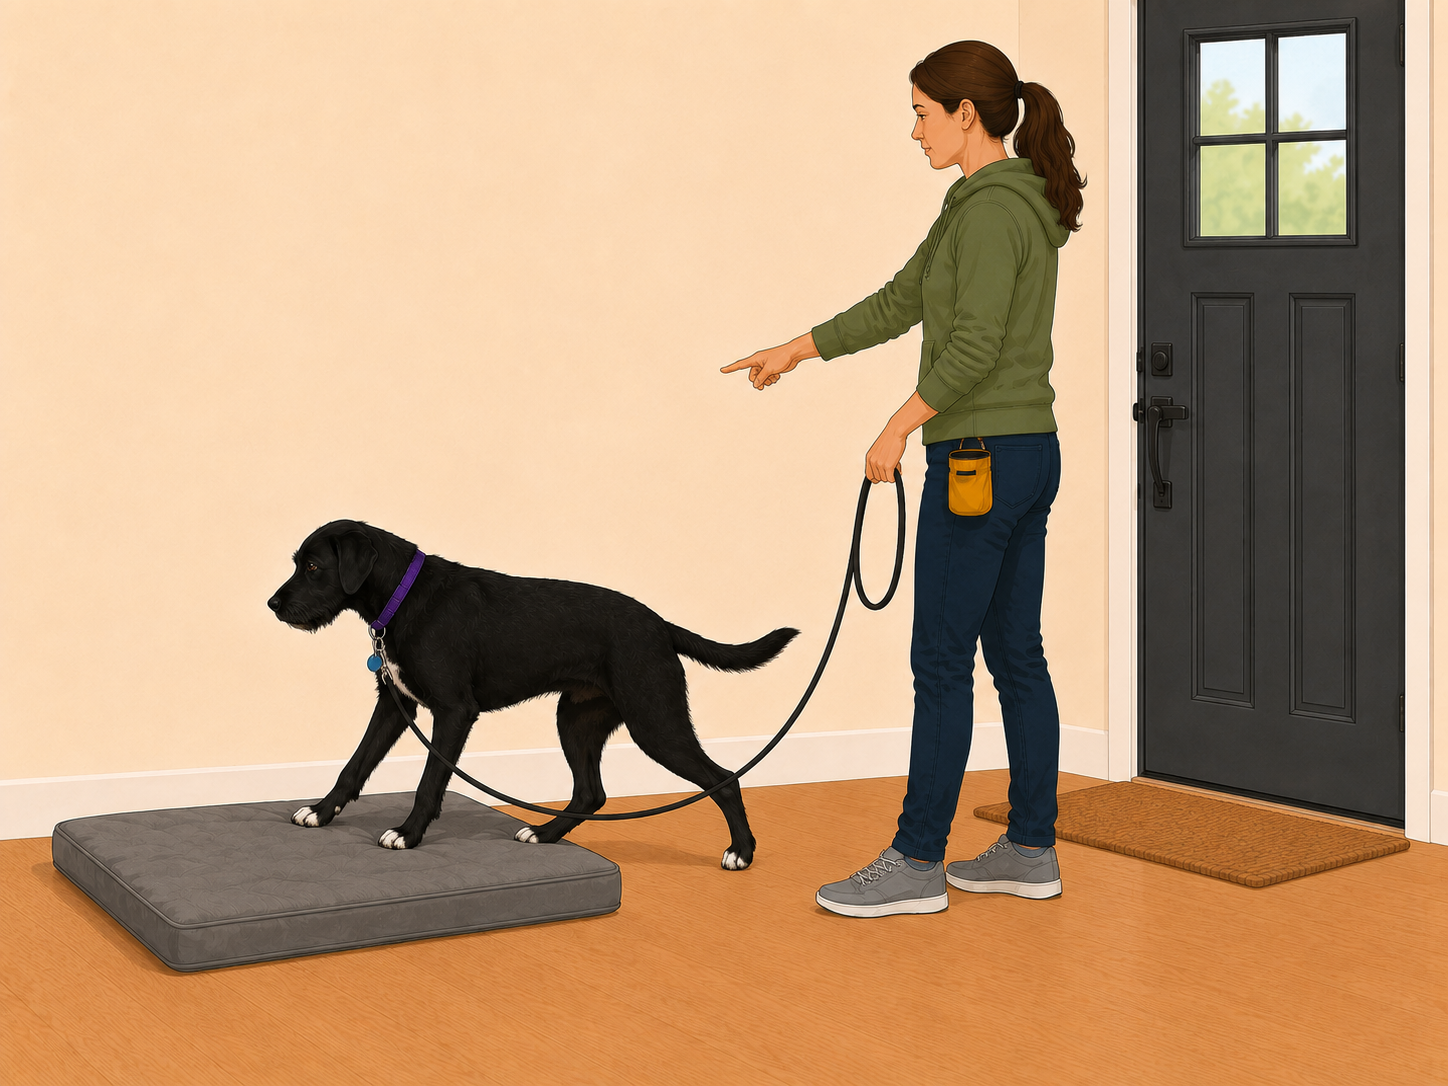
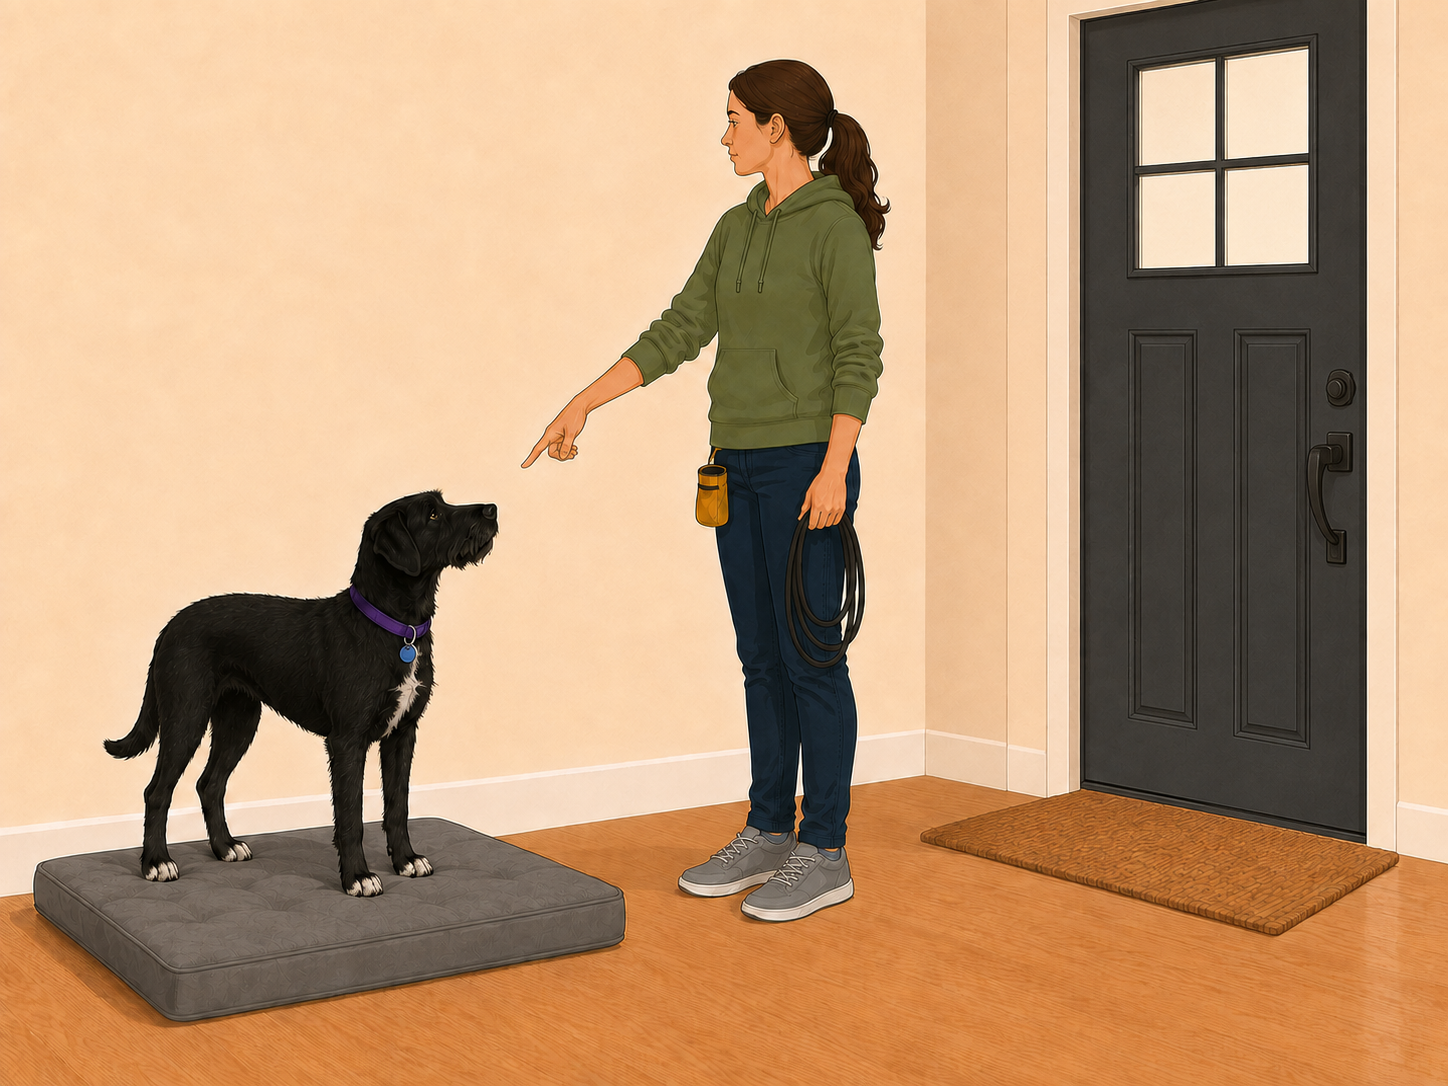
Install the send-to-bed redraw, and guard the bug that ate its pair
door-place-03-send passed its blind check and shipped. Three viewers, filenames
stripped: four feet on the bed, high confidence she is on it, attention on the
handler, and nobody read her as leaving - which is the dg-06 defect that had
survived one replacement already.

All three still could not tell whether she had just stepped on, was holding, or
was about to step off, so the claim was rewritten rather than the picture drawn
a third time. Arrival is a transition and 'sent' is a cause; a still reports
neither. That is the fourth claim in this project to fail for that reason.

door-sound-03-name-distant is NOT installed. Third attempt, third failure, and
the transcripts say why: turning her body to face the handler put the camera
behind her, so 'looking at the door' became 'I cannot tell - her eyes are not
visible'. Face visible and body turned are in opposition from this camera
position, which sits beside the door looking down the hall - the one spot where
a dog facing the hall must have her back to it. The fix is a camera move, not a
fourth try at the same shot. Written up in the pilot doc with the case against
my own reading: these are models, left/right is a known weak spot for them, and
zoomed in her muzzle really is turned down the hallway.

And the remap exposed a bug I had already fixed once. CONFUSABLE pair P1 still
pointed at scene 16 after the key moved to 46, so it rendered undefined.jpg for
[…]

diff --git a/js/version.js b/js/version.js
@@ -10,7 +10,7 @@
  * The 1.12 lineage continues the old hand-bumped cache names, which reached
  * lucy-learns-v11 before this file existed.
  */
-export const APP_VERSION = '1.70.0';
+export const APP_VERSION = '1.71.0';
 
 /**
  * The day this build went out, shown under the version on the splash.

diff --git a/docs/comprehension-survey.md b/docs/comprehension-survey.md
@@ -63,17 +63,7 @@ landed, it lands here.
 
 **Scoring key —** she is staying put while the handler walks away.
 
-### Q2. Send her to her bed
-
-![door-place-03-send](https://adamdhickey-collab.github.io/lucy-learns/img/door-place-03-send.jpg)
-
-`door-place-03-send.jpg` · **redraw of a recorded defect** · 22 references
-
-> **Ask:** In one sentence, what is the person doing, and what is the dog doing?
-
-**Scoring key —** she is arriving on the bed, sent there from behind.
-
-### Q3. Release and reset
+### Q2. Release and reset
 
 ![door-stay-05-release](https://adamdhickey-collab.github.io/lucy-learns/img/door-stay-05-release.jpg)
 
@@ -83,7 +73,7 @@ landed, it lands here.
 
 **Scoring key —** she is coming off the bed, invited, toward open hands.
 
-### Q4. Say her name
+### Q3. Say her name
 
 ![door-sound-03-name](https://adamdhickey-collab.github.io/lucy-learns/img/door-sound-03-name.jpg)
 
@@ -93,7 +83,7 @@ landed, it lands here.
 
 **Scoring key —** her name was said and she looked away from the door.
 
-### Q5. The door opens, the guest stays put
+### Q4. The door opens, the guest stays put
 
 ![door-greet-04-open](https://adamdhickey-collab.github.io/lucy-learns/img/door-greet-04-open.jpg)
 
@@ -103,7 +93,7 @@ landed, it lands here.
 
 **Scoring key —** the door is open, the guest has not moved, and she is being held on the bed on a slack leash.
 
-### Q6. The guest comes in and does nothing
+### Q5. The guest comes in and does nothing
 
 ![door-greet-06-enter](https://adamdhickey-collab.github.io/lucy-learns/img/door-greet-06-enter.jpg)
 
@@ -113,7 +103,7 @@ landed, it lands here.
 
 **Scoring key —** nobody is paying the dog any attention, and she has stayed on her bed anyway.
 
-### Q7. Paid on the bed
+### Q6. Paid on the bed
 
 ![door-greet-05-reward](https://adamdhickey-collab.github.io/lucy-learns/img/door-greet-05-reward.jpg)
 
@@ -123,7 +113,7 @@ landed, it lands here.
 
 **Scoring key —** the treat is arriving while she is still on the bed and the door is still open.
 
-### Q8. Greeting nobody at the open door
+### Q7. Greeting nobody at the open door
 
 ![door-stay-03-pretend](https://adamdhickey-collab.github.io/lucy-learns/img/door-stay-03-pretend.jpg)
 
@@ -133,7 +123,7 @@ landed, it lands here.
 
 **Scoring key —** she has her back to the dog and her attention out of the open door, and the dog is holding her bed anyway.
 
-### Q9. Called from another room
+### Q8. Called from another room
 
 ![door-sound-03-name-distant](https://adamdhickey-collab.github.io/lucy-learns/img/door-sound-03-name-distant.jpg)
 
@@ -143,7 +133,7 @@ landed, it lands here.
 
 **Scoring key —** she heard her name from far away and turned toward it.
 
-### Q10. One step away
+### Q9. One step away
 
 ![door-stay-03-onestep](https://adamdhickey-collab.github.io/lucy-learns/img/door-stay-03-onestep.jpg)
 
@@ -153,7 +143,7 @@ landed, it lands here.
 
 **Scoring key —** she has barely moved — the bed is still right at her heel.
 
-### Q11. Halfway to the door
+### Q10. Halfway to the door
 
 ![door-stay-03-halfway](https://adamdhickey-collab.github.io/lucy-learns/img/door-stay-03-halfway.jpg)
 
@@ -163,7 +153,7 @@ landed, it lands here.
 
 **Scoring key —** half the room between them, and the handler has stopped to check.
 
-### Q12. The sound, as a close two-shot
+### Q11. The sound, as a close two-shot
 
 ![door-sound-cover](https://adamdhickey-collab.github.io/lucy-learns/img/door-sound-cover.jpg)
 
@@ -173,7 +163,7 @@ landed, it lands here.
 
 **Scoring key —** she and her person have each other's complete attention.
 
-### Q13. The stay, as an open door
+### Q12. The stay, as an open door
 
 ![door-stay-cover](https://adamdhickey-collab.github.io/lucy-learns/img/door-stay-cover.jpg)
 
@@ -183,7 +173,7 @@ landed, it lands here.
 
 **Scoring key —** the door is wide open and she has stayed where she is.
 
-### Q14. Place, as a dog on a bed and nothing else
+### Q13. Place, as a dog on a bed and nothing else
 
 ![door-place-cover](https://adamdhickey-collab.github.io/lucy-learns/img/door-place-cover.jpg)
 
@@ -193,7 +183,7 @@ landed, it lands here.
 
 **Scoring key —** she is settled on her own bed.
 
-### Q15. Settled on the mat, redrawn with her own coat
+### Q14. Settled on the mat, redrawn with her own coat
 
 ![plan-mat](https://adamdhickey-collab.github.io/lucy-learns/img/plan-mat.jpg)
 
@@ -202,6 +192,16 @@ landed, it lands here.
 > **Ask:** In one sentence, what is the person doing, and what is the dog doing?
 
 **Scoring key —** a dog completely asleep.
+
+### Q15. Send her to her bed, redrawn as arriving
+
+![door-place-03-send](https://adamdhickey-collab.github.io/lucy-learns/img/door-place-03-send.jpg)
+
+`door-place-03-send.jpg` · **redraw of a recorded defect** · 1 reference
+
+> **Ask:** In one sentence, what is the person doing, and what is the dog doing?
+
+**Scoring key —** **she is standing on her bed, all four feet, looking up at the person pointing at it.**.
 
 ---
 
@@ -212,7 +212,7 @@ apart, which is the failure that actually reaches a household: two steps of one
 activity that look like the same photograph. Show both, side by side, and ask
 for one.
 
-### P1. Send her to her bed vs Release and reset
+### P1. Send her to her bed, redrawn as arriving vs Release and reset
 
 | A | B |
 | --- | --- |

diff --git a/docs/comprehension-pilot.md b/docs/comprehension-pilot.md
@@ -338,6 +338,67 @@ done; what is left is two redraws and one deliberate refusal.
 
 ---
 
+# Batch 9, checked blind before installing
+
+Both redraws were blind-checked with the filenames stripped before either went
+near the app. One passed and shipped; one is on its third failure and is
+recorded here unfixed.
+
+## `door-place-03-send` — passed, and its claim was rewritten
+
+Three viewers, both images, two orders. All three: four feet on the bed, high
+confidence she is on it, attention on the handler. **Nobody read her as
+leaving** — the previous version had a viewer say "walking away off the far
+side", and that is gone.
+
+All three also said they could not tell whether she had just stepped on, was
+holding, or was about to step off. That is the transition problem for the
+fourth time in this document, so the claim was rewritten rather than the
+picture redrawn again: *"she is standing on her bed, all four feet, looking up
+at the person pointing at it"*. Arrival is a transition and "sent" is a cause;
+a still frame reports neither.
+
+Installed at 1.71.0.
+
+## `door-sound-03-name-distant` — improved, still failing, and now three deep
+
+| Version | What three blind viewers said |
+| --- | --- |
+| Shipped | *"looking up at nothing I can see"* — 0/4 |
+| Body squared to the door, head turned back | *"roughly 180 degrees away from her"*, *"definitely not looking at her"* — 0/3 |
+| Whole body turned down the hallway | *"I cannot tell"* — 0/3 |
+
+Wrong became unclear, which is progress, and the reason is in every transcript:
+**her face is no longer visible.** Turning her body to face the handler put the
+camera behind her. *"The dog is drawn from behind and slightly to the side …
+its eyes are not visible."* *"A rear three-quarter view of a black dog, so a
+first-time viewer gets no expression or eye contact to read."*
+
+So the two fixes are in opposition as the shot is currently framed:
+
+- Face visible → body squared to the door → reads as *looking at the door*.
+- Body turned to the handler → camera behind her → reads as *cannot tell*.
+
+Neither is a drawing failure. **The camera is in the wrong place.** It sits
+beside the door looking down the hall, which is the one position where a dog
+facing down the hall must have her back to it. The shot that resolves it puts
+the camera side-on to the hallway axis — her flank to the lens, sitting upright
+facing the handler, muzzle and eye in clear profile, the handler beyond her in
+the same plane. Body, head, gaze and camera then all agree.
+
+**Two things worth saying against my own conclusion.** These are language
+models, and left/right spatial reading is a known weak spot for them; I zoomed
+in and her muzzle genuinely *is* turned down the hallway in both versions, so a
+human panel might well score this differently. And the app never shows this
+picture alone — it sits under the instruction "call her from another room".
+
+Neither gets it off the hook. It is the only Block A image that has never once
+been read correctly by anyone who did not commission it, across three attempts
+and ten viewers. But it is also the point at which the honest options are a
+camera move or a rewritten claim, **not** a fourth attempt at the same shot.
+
+---
+
 # Block C, second run — the covers as a set
 
 ## First run: three of four were the same picture

diff --git a/docs/pilot-prompts.md b/docs/pilot-prompts.md
@@ -2362,8 +2362,18 @@ and turned away from the handler — nothing in it says* sent.
 > tufted brows, wiry along the back. The picture being replaced drew her
 > smooth-faced, the same drift batch 8 corrected in the planned covers.
 >
-> The single thing this image must make obvious: **she has arrived on the bed
-> and is looking back at the person who sent her.**
+> The single thing this image must make obvious: **she is standing on her bed,
+> all four feet, looking up at the person pointing at it.**
+>
+> *(Claim rewritten after the redraw was checked blind. It used to end "she has
+> **arrived** on the bed and is looking back at the person who **sent** her",
+> and three viewers confirmed both halves that a picture can hold — four feet
+> on the bed, high confidence, and her attention on the handler — while all
+> three said they could not tell whether she had just stepped on, was holding,
+> or was about to step off. Arrival is a transition and a still cannot report
+> one; "sent" is a cause and a still cannot report that either. What matters is
+> that the old failure is gone: nobody read her as leaving, where the previous
+> version had a viewer say "walking away off the far side".)*
 >
 > Landscape 4:3, wider than tall.
 
